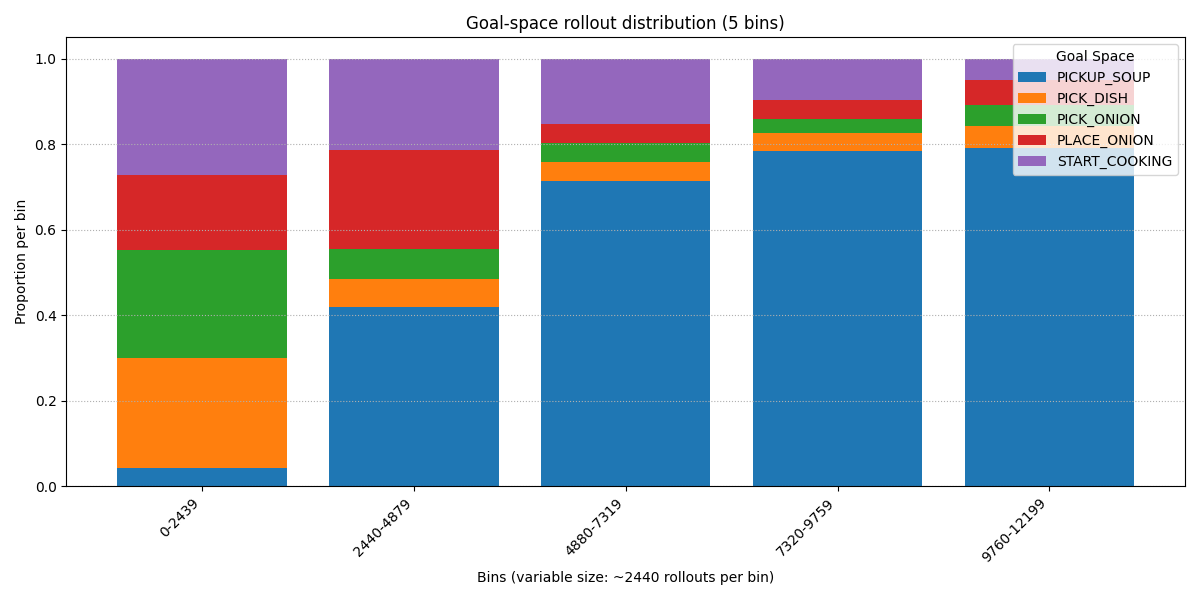
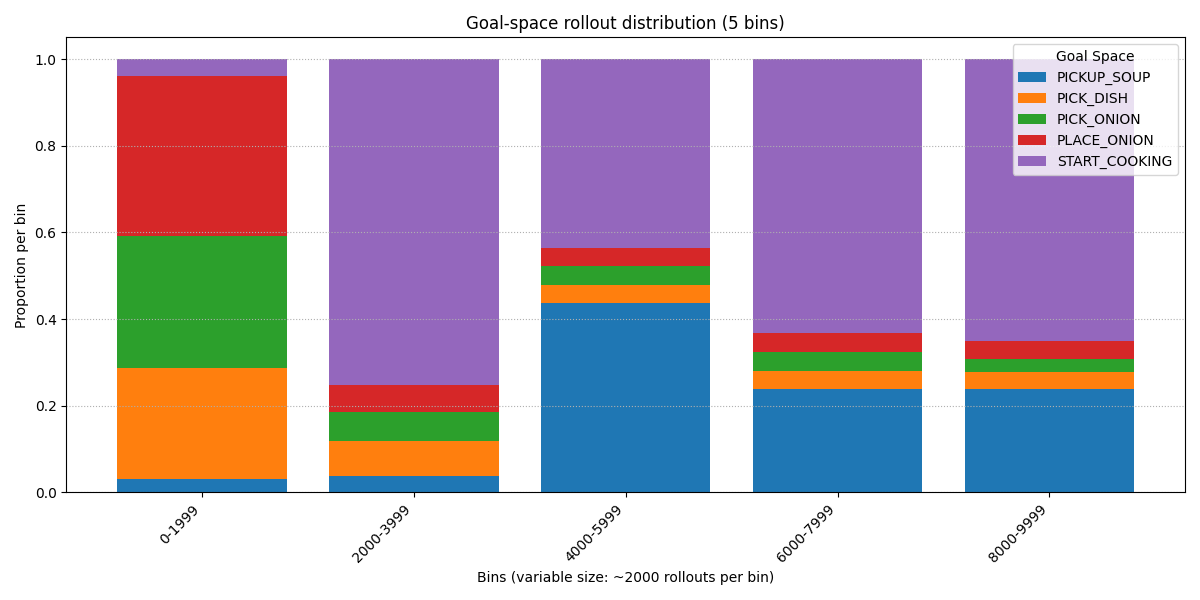
Some more rollouts

diff --git a/imrl_agent_new/demo_eval.py b/imrl_agent_new/demo_eval.py
@@ -28,7 +28,7 @@ for ag in agents: ag.kb.load_buffer("kb/buffer_rollouts" + str(ag.agent_id) + ".
 # ---------------------------------------------------------------- run one roll-out
 state = env.reset()
 
-ROLL_OUTS = 100
+ROLL_OUTS = 5000
 
 for roll in range(ROLL_OUTS):
     print(roll)
